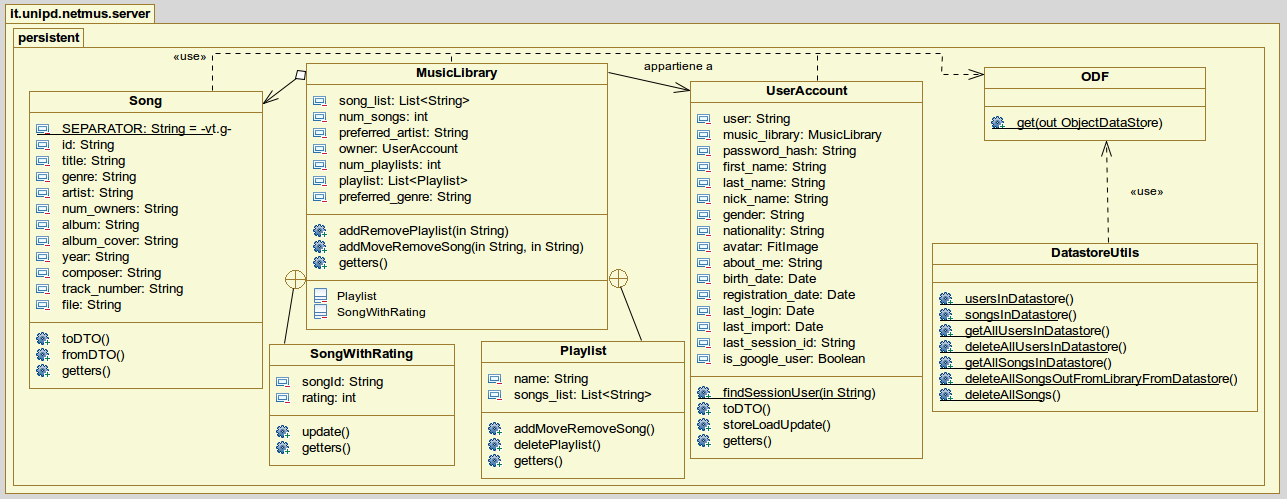
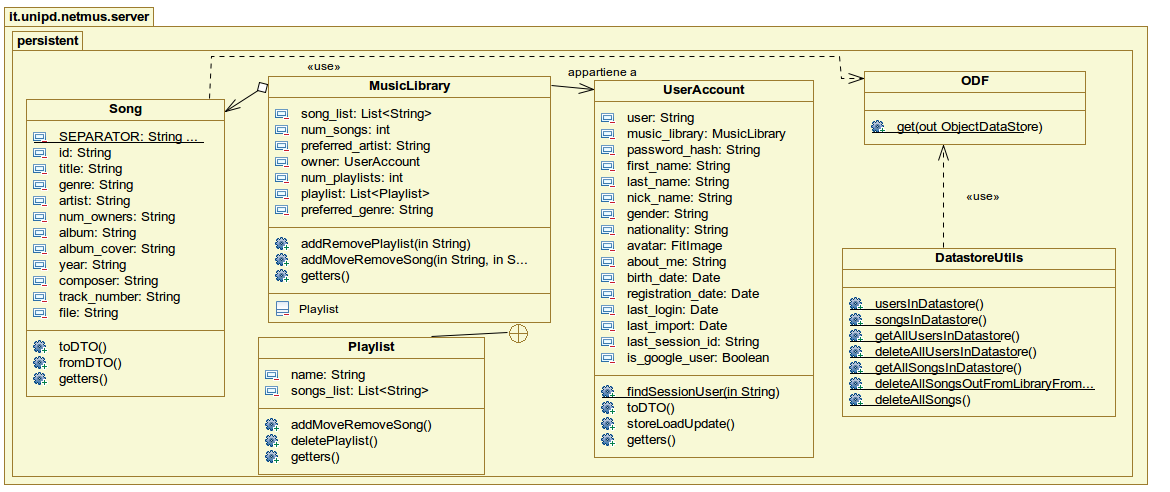
FIX - DefinizioneDelProdotto.tex - Modificati diagrammi delle classi

diff --git a/DefinizioneDelProdotto.tex b/DefinizioneDelProdotto.tex
@@ -177,7 +177,7 @@ importanti decisioni architetturali con una breve descrizione.
   operazioni sul Datastore. Questo framework si interfaccia al sistema NetMus
   nelle componenti di persistenza DAO \co{UserAccount}, \co{Song} e
   \co{MusicLibrary} e nella classe singleton \co{ODF} (Object Datastore
-  Factory). Quest'ultima è stata inserita nel package \emph{server.persistent}
+  Factory). Quest'ultima \`e stata inserita nel package \emph{server.persistent}
   per garantire un migliore information hiding. \\
   La versione utilizzata del framework \`e l'ultima rilasciata: Twig-Persist 2.0
   Beta 4.
@@ -2427,7 +2427,7 @@ Varie.
 
 \begin{figure}[!h]
   \centering
-  \includegraphics[width=15cm]{img/DP/classes_utils.png}
+  \includegraphics[width=15cm]{img/DP/classes_server_utils.png}
 \caption{Diagramma UML delle classi che descrive le dipendenze
 fondamentali presenti all'interno del package
 \emph{it.unipd.netmus.server.utils}.}
